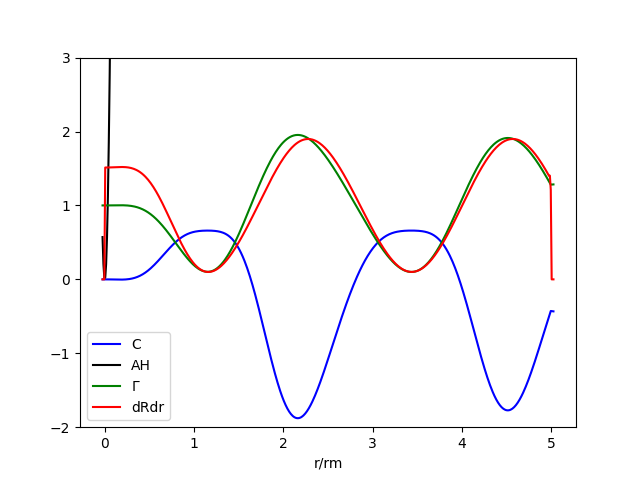
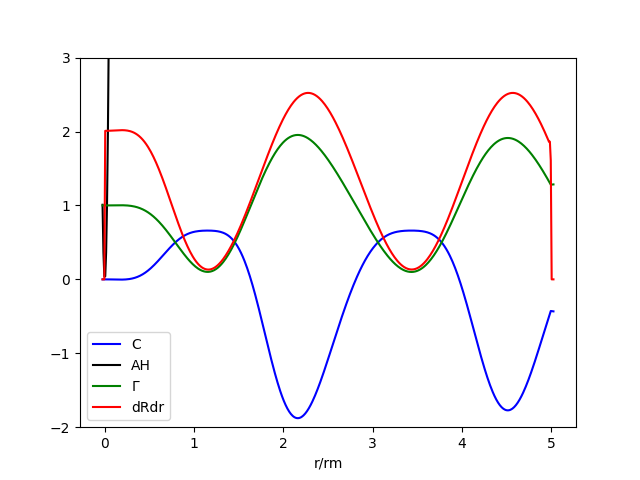
update

diff --git a/engrenage_MSPBH/examples/Collapse_evo.py b/engrenage_MSPBH/examples/Collapse_evo.py
@@ -21,7 +21,7 @@ from source.rhsevolution import *             # go here to look at how the evolu
 from source.initialdata import *              # go here to change the initial conditions
 # from source.hamdiagnostic import *  
 
-h5_filename = './outC.hdf5'
+h5_filename = './out_B.hdf5'
 
 
 params = Munch(dict())
@@ -339,7 +339,29 @@ def restart_from_h5file(h5_filename, params, idata_params, start_from = False,\
              
     # rerun! 
     rk4(tn, yn, params, h5_filename, \
-                max_iterations, max_t, iter_output, cnt = int(start_it))
+                max_iterations, max_t, iter_output, cnt = int(start_it)+1)
+
+
+def load_simdata(h5_filename, params, idata_params):
+	
+    with h5py.File(h5_filename, "r") as h5file:
+        datalev = h5file["data"] 
+        keys = datalev.keys()
+        iterations = len(keys)//2 -1 
+        
+        times = np.array([ datalev[f't_{i}'][0] for i in range(iterations)])
+        solutions = np.array([ datalev[f'{i}'][:] for i in range(iterations)]) 
+
+        for key in params.keys():
+            params[key] = h5file.attrs[key]
+            print(f" {key} : {params[key]}")
+        
+        for key in idata_params.keys():
+            idata_params[key] = h5file.attrs[key]
+            print(f" {key} : {idata_params[key]}")
+        
+        return times, solutions
+	
 
     
 
@@ -410,8 +432,10 @@ def rk4(t0, y0, params, h5_filename=None,
         
 
 
+do_simulation = True
 restart = True
-if not restart: 
+
+if not restart and do_simulation: 
 	create_attrib_h5file(h5_filename)
 
 	N_t = 100
@@ -420,17 +444,17 @@ if not restart:
 
 	solution, t_sol = rk4(t_ini, initial_state, params, h5_filename,  \
 						   max_iterations=N_t, max_t=T, iter_output=N_t//20)
-else:
+elif do_simulation:
 	N_t = 100
 	N_t = 50000
-	T = 8000	
+	T = 15000	
 	
 	restart_from_h5file(h5_filename, params, idata_params, start_from = False,\
                         max_iterations=N_t, max_t=T, iter_output=N_t//20)
 	
 
 end = time.time() 
-print(f"Time needed for evolution {end-start} seconds.") 
+if do_simulation: print(f"Time needed for evolution {end-start} seconds.") 
 
 
 
@@ -441,39 +465,20 @@ print(f"Time needed for evolution {end-start} seconds.")
 
 
 
+
+
+t_sol, solution = load_simdata(h5_filename, params, idata_params)
 
 rm = get_rm(params, idata_params, print_out=1)
 
 
+print("times, ", t_sol)
+
 ############################################################
 
-if False: 
-    # Plot a single point versus time  at location r_i
-    var1 = idx_U 
-    var2 = idx_R
-    var3 = idx_M
-    var4 = idx_rho
-
-    t = t_sol
-
-    idx = num_ghosts+1
-    r_i = np.round(r[idx],2)
-    var1_of_t = solution[:, var1 * (N_r + 2*num_ghosts) + idx]
-
-    plt.plot(t[:], var1_of_t[:], 'b-', label=variable_names[var1])
-
-    plt.xlabel('t')
-    plt.ylabel('value at r is '+str(r_i))
-    plt.legend(loc='best')
-    plt.grid()
-    plt.show()
-
-
-#######################################################
-
-
 if True:
-    
+    R_max = params.r_max
+    rho_bkg_ini = params.rho_bkg_ini
     dx = R_max/N_r
     oneoverdx  = 1.0 / dx
     oneoverdxsquared = oneoverdx * oneoverdx

diff --git a/engrenage_MSPBH/source/initialdata.py b/engrenage_MSPBH/source/initialdata.py
@@ -51,8 +51,14 @@ def get_zeta(r, k_star):  # curvature
     k = k_star    
     A = nu
     B = 3./5*fNL*nu**2
-        
-    zeta =  nu * MySinc(k*x) + B * (MySinc(k*x))**2 
+    
+    # off = (nu * np.pi/k_star) 
+    off = 0
+    off = 0.76395   # excpected value sinc()^2        
+    
+    zeta =  nu * MySinc(k*x) + B * ((MySinc(k*x))**2  - off**2) 
+    if off: print("offset in zeta is : ", off, end='\r')
+    
     return zeta
     
 def get_dzetadr(r, k_star):  # d/dr curvature 
